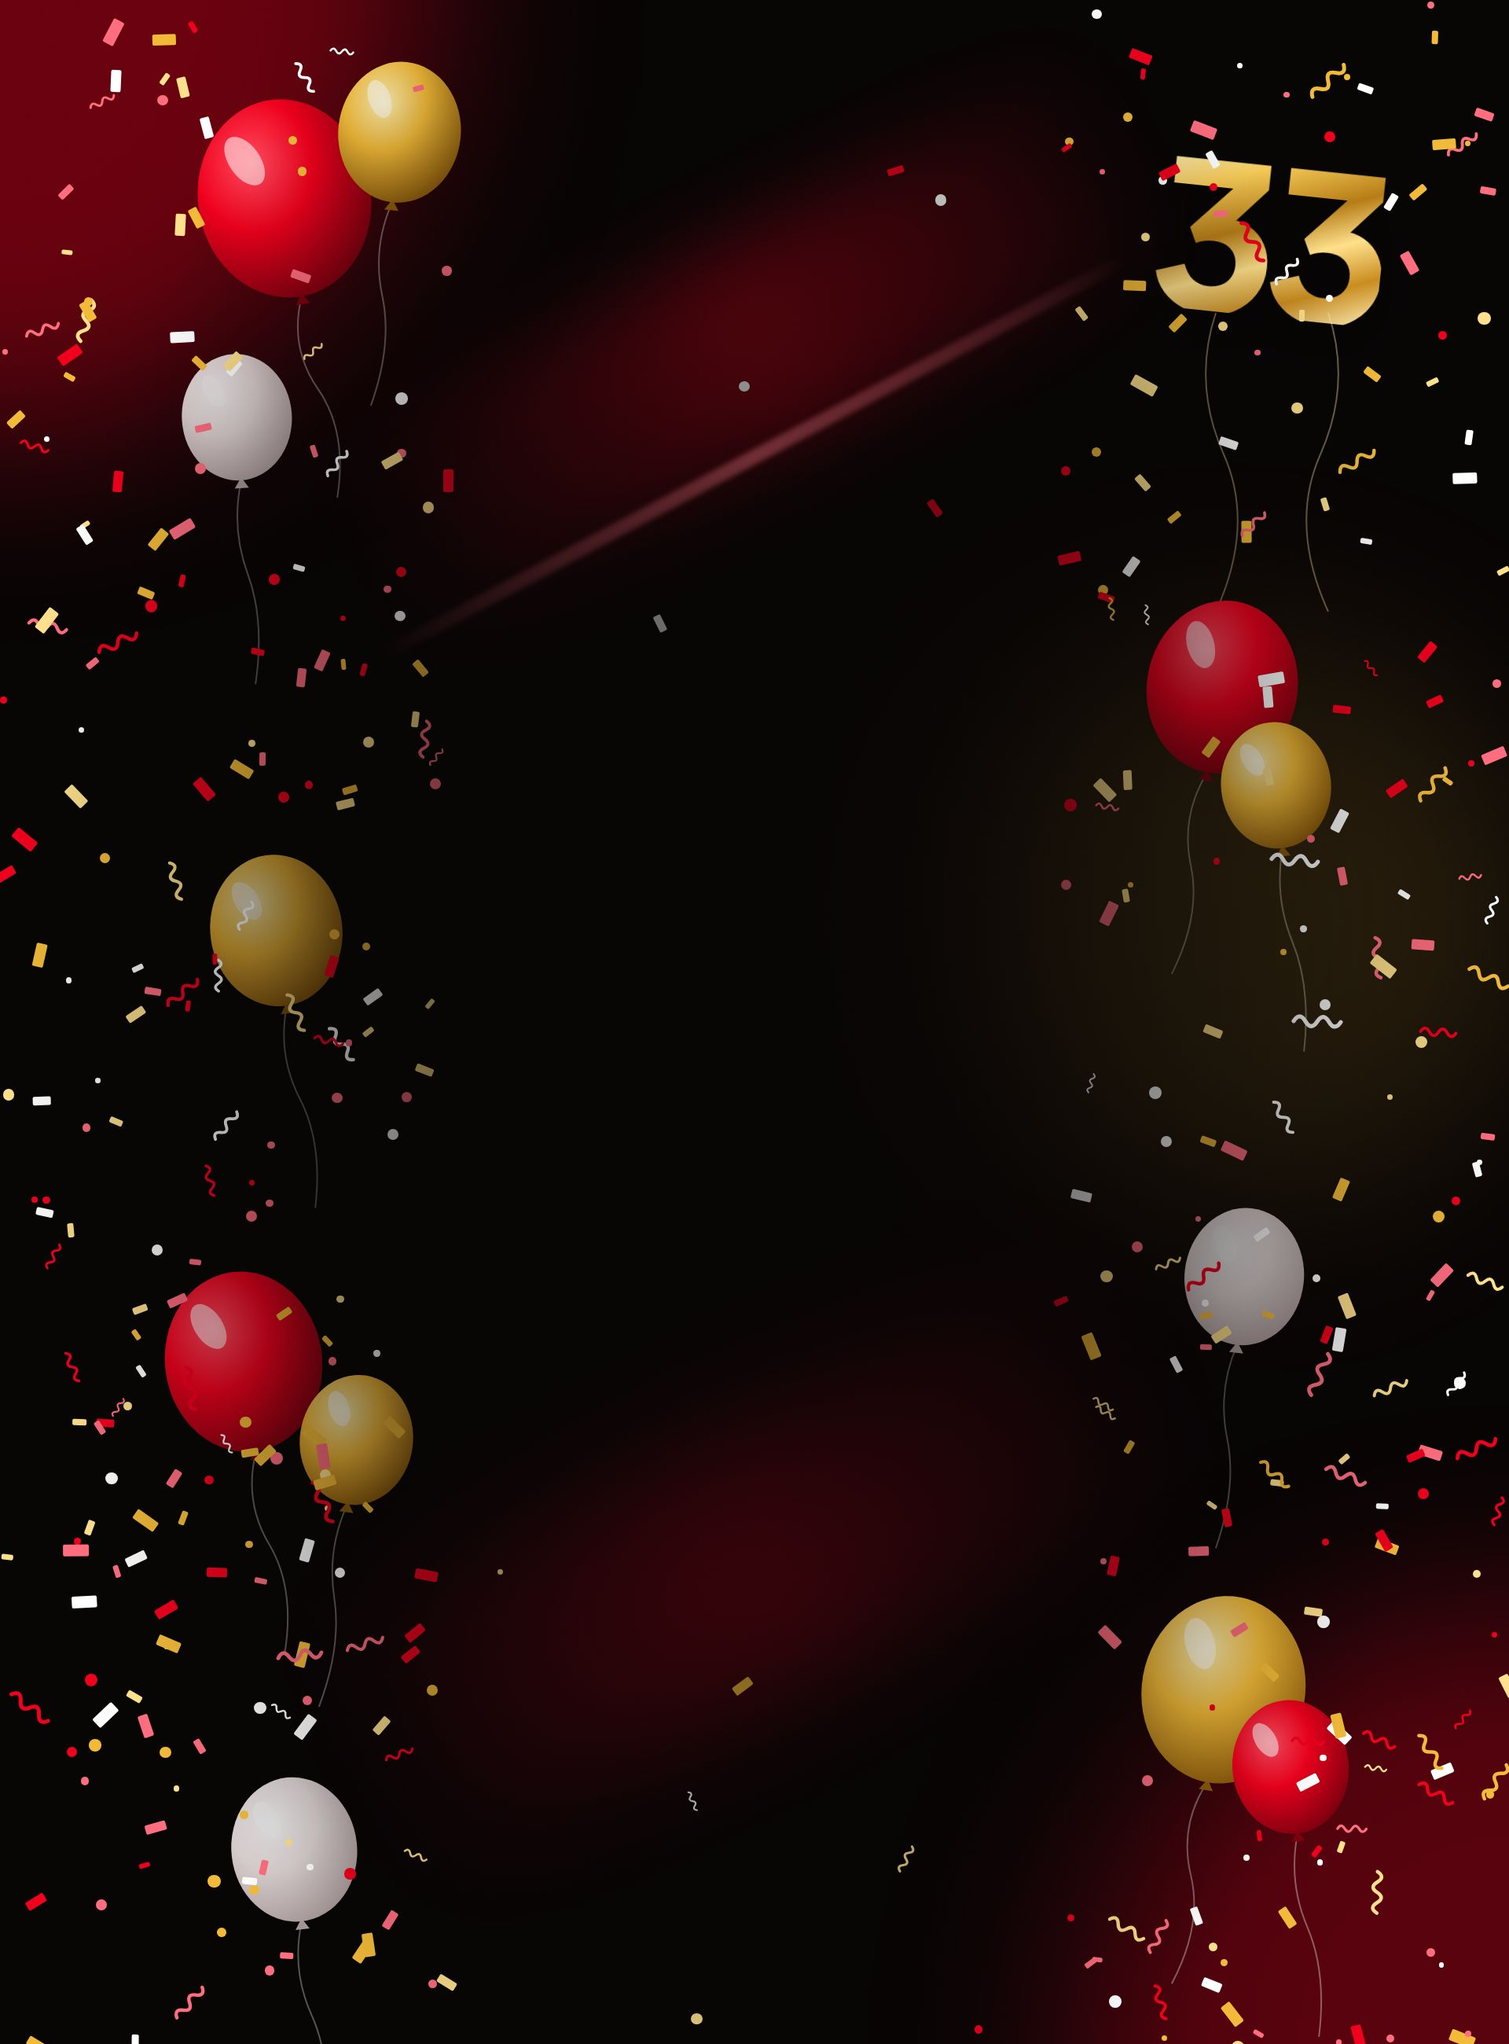
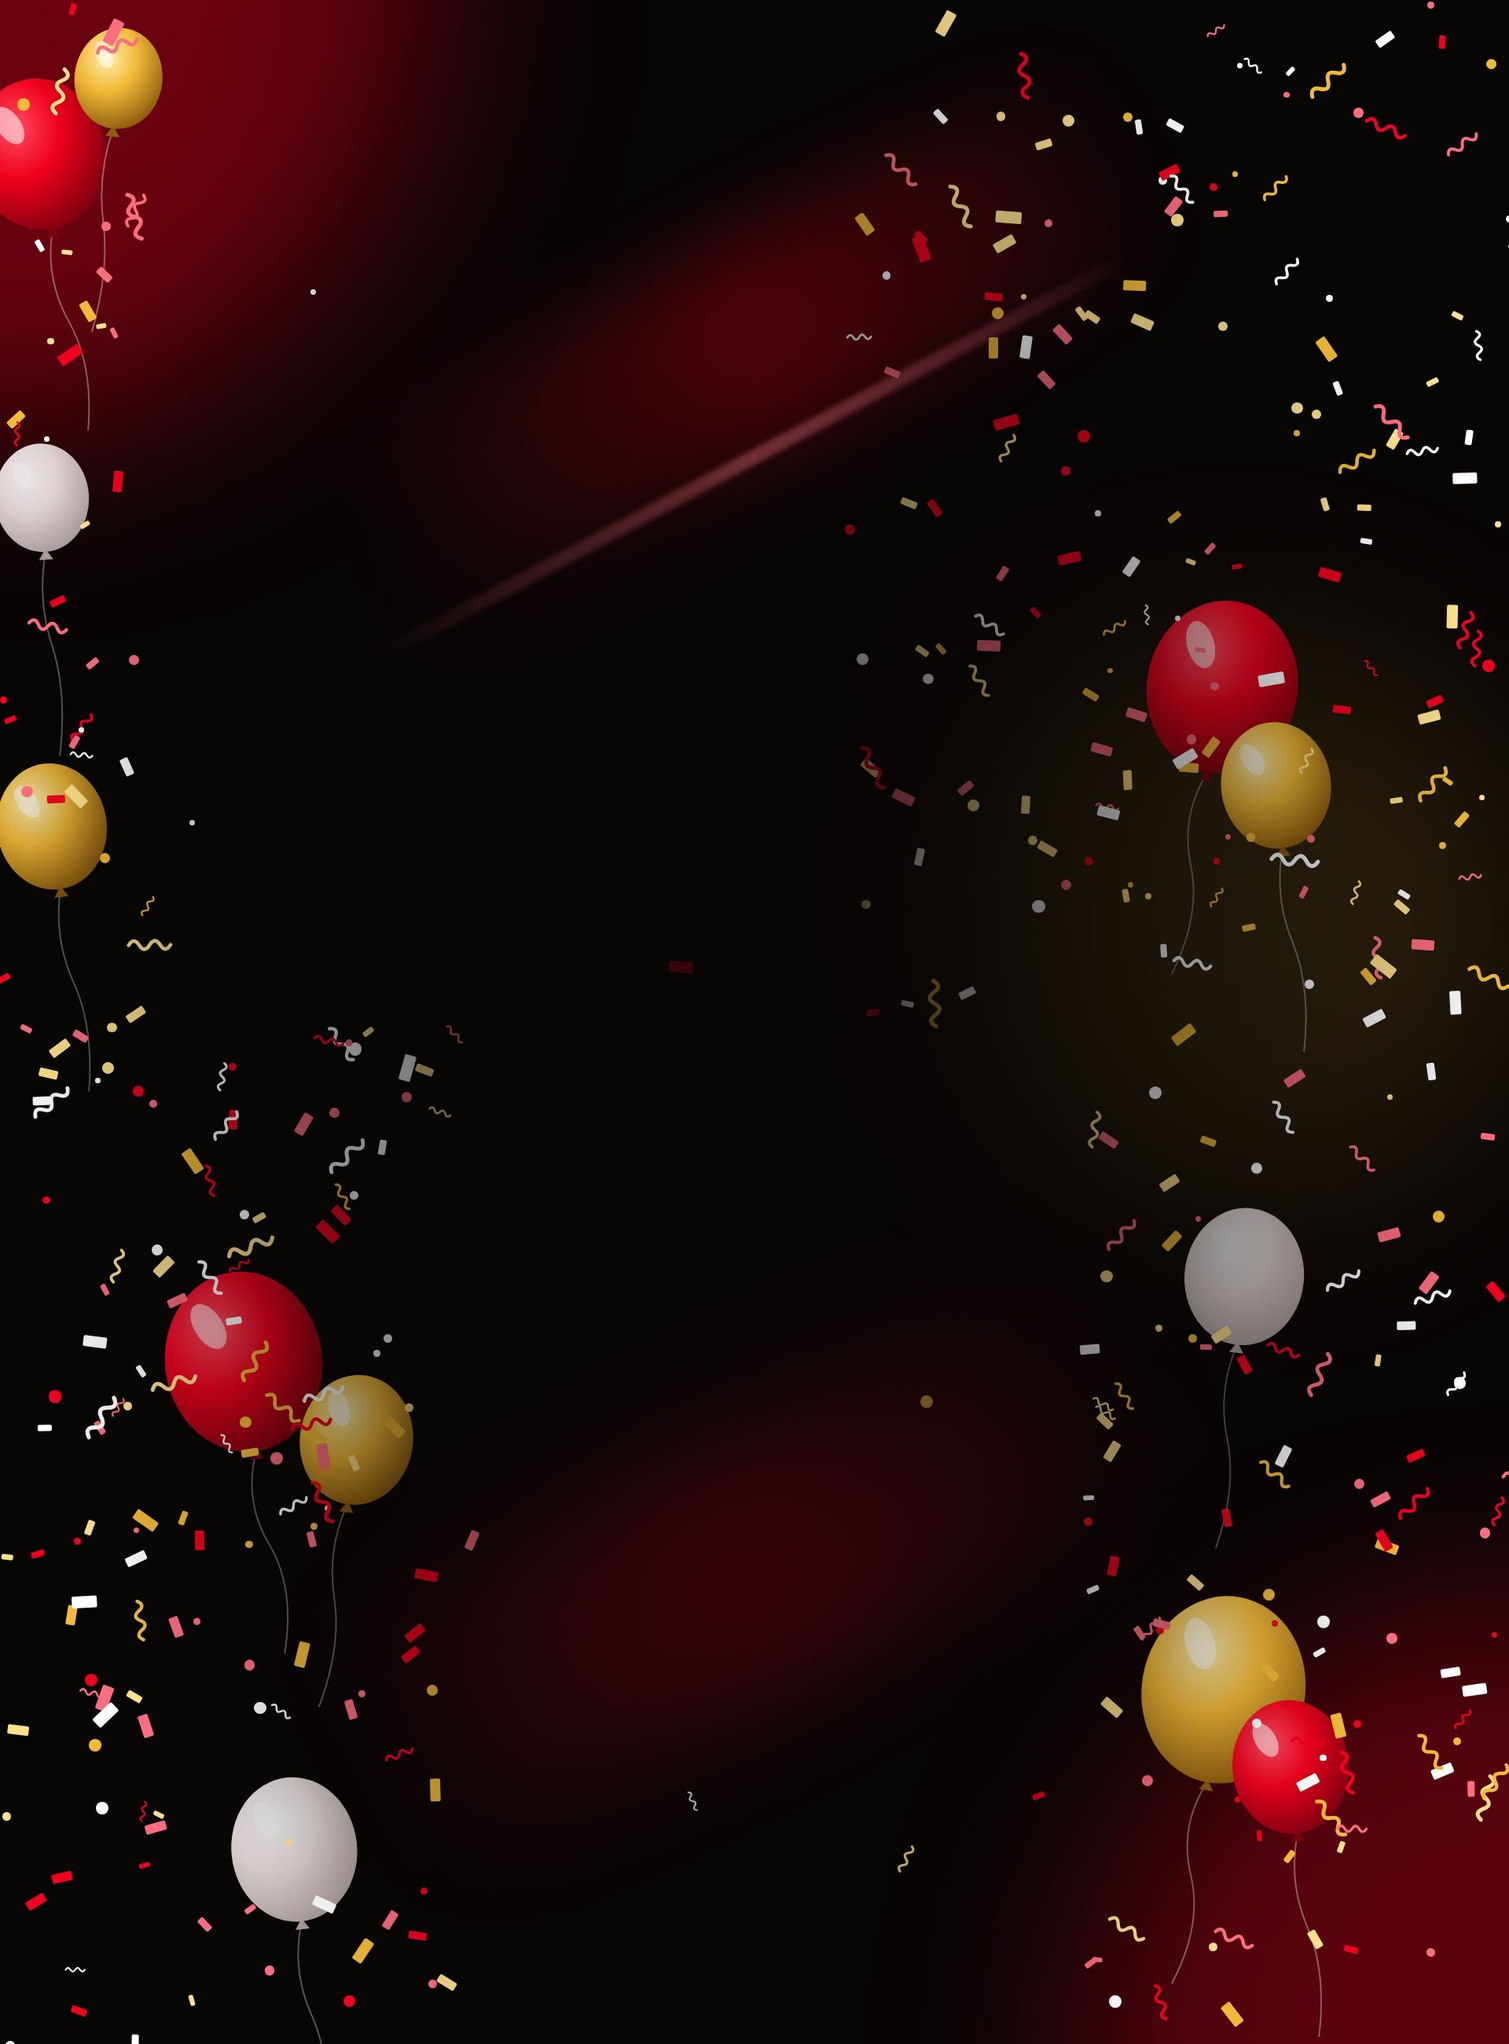
Add Smitty's photo to the Goat's 33 hero
The hero is now two columns on desktop (copy left, framed photo right
with a gold border, gentle float and a "Just turned 33" badge); on
phones the photo sits under the headline. The desktop hero background
was redrawn to keep the left text column clear, and its gold 33
balloon was dropped since the photo now fills that corner.
The block uses SMITTY_PHOTO_URL as a placeholder for the GHL Media URL.

Claude-Session: https://claude.ai/code/session_016EWm4T9j3p357VgxQ4fA9k

diff --git a/funnel/goats-33/preview/registration.html b/funnel/goats-33/preview/registration.html
@@ -106,6 +106,28 @@ html { scroll-behavior: smooth; }
 .wf-hero .wf__wrap { padding-top: 64px; padding-bottom: 32px; }
 .wf-hero h1 { margin: 20px 0 20px; }
 .wf-hero h1 span { display: block; }
+/* Hero with Smitty's photo: copy left, photo right on desktop; photo under the headline on phones */
+.wf-hero .wf-hero__grid { max-width: 1160px; display: grid; grid-template-columns: minmax(0, 1.15fr) minmax(0, .85fr);
+  grid-template-areas: "head photo" "rest photo"; column-gap: 56px; align-items: center; text-align: left; }
+.wf-hero__head { grid-area: head; align-self: end; }
+.wf-hero__rest { grid-area: rest; align-self: start; }
+.wf-hero__rest .wf-learn, .wf-hero__rest .wf-dates { margin-left: 0; margin-right: 0; max-width: none; }
+.wf-hero__photo { grid-area: photo; position: relative; margin: 0; justify-self: center; width: 100%; max-width: 440px;
+  transform: rotate(2deg); animation: wf-photo-float 6s ease-in-out infinite; }
+.wf-hero__photo img { display: block; width: 100%; height: auto; border-radius: 18px; border: 4px solid transparent;
+  background: linear-gradient(#000, #000) padding-box, var(--wf-gold-foil) border-box;
+  box-shadow: 0 30px 60px -20px rgba(0,0,0,.8), 0 0 60px -10px rgba(242,185,55,.45); }
+.wf-hero__badge { position: absolute; left: -18px; bottom: 28px; padding: 10px 16px; border-radius: 999px; background: var(--wf-red); color: #fff;
+  font-family: var(--wf-head); font-weight: 800; font-size: 15px; letter-spacing: .02em; transform: rotate(-6deg);
+  box-shadow: 0 12px 28px -8px rgba(240,0,28,.7); animation: wf-badge-wobble 3s ease-in-out infinite; }
+@keyframes wf-photo-float { 0%, 100% { transform: rotate(2deg) translateY(0); } 50% { transform: rotate(2deg) translateY(-10px); } }
+@keyframes wf-badge-wobble { 0%, 100% { transform: rotate(-6deg) scale(1); } 50% { transform: rotate(-3deg) scale(1.05); } }
+@media (max-width: 860px) {
+  .wf-hero .wf-hero__grid { grid-template-columns: 1fr; grid-template-areas: "head" "photo" "rest"; text-align: center; }
+  .wf-hero__photo { max-width: 340px; margin: 28px auto 4px; }
+  .wf-hero__rest .wf-learn { text-align: left; }
+}
+@media (prefers-reduced-motion: reduce) { .wf-hero__photo, .wf-hero__badge { animation: none; } }
 .wf-learn { margin: 36px auto 0; max-width: 600px; text-align: left; background: rgba(255,255,255,.04);
   border: 1px solid rgba(255,255,255,.12); border-radius: var(--wf-radius); padding: 24px; }
 .wf-learn h3 { margin-bottom: 14px; }
@@ -341,14 +363,23 @@ body{margin:0;background:#0A0606}
 </div>
 
 <section class="sec sec--hero"><!-- Goat's 33 · 02 HERO · GHL section background = backgrounds/hero-desktop.jpg (mobile: hero-mobile.jpg)
-     Same section, stacked below this: 02b-waitlist-header, then GHL's native FORM, then 03-waitlist-perks. -->
+     Same section, stacked below this: 02b-waitlist-header, then GHL's native FORM, then 03-waitlist-perks.
+     PHOTO: upload images/smitty-hero.jpg to GHL Media, copy its URL, and paste it in place of ../images/smitty-hero.jpg below. -->
 <div class="wf wf--dark wf-hero">
   <div class="wf-confetti" aria-hidden="true"><i></i><i></i><i></i><i></i><i></i><i></i><i></i><i></i><i></i><i></i><i></i><i></i><i></i><i></i><i></i><i></i><i></i><i></i><i></i><i></i></div>
-  <div class="wf__wrap wf__center">
+  <div class="wf__wrap wf-hero__grid">
+    <div class="wf-hero__head">
     <span class="wf__pill wf__pill--party">🎉 Birthday month · 33 days · $330</span>
     <h1><span class="wf__gold">Goat's 33:</span> <span class="wf__red">33 Days to Fundable</span></h1>
     <p class="wf__lead">I just turned 33. For my birthday month, I'm taking you through the 33 credit and funding moves I wish somebody showed me at 23, for $330.</p>
+    </div>
 
+    <figure class="wf-hero__photo">
+      <img src="../images/smitty-hero.jpg" alt="Smitty smiling and pointing to his framed ClickFunnels Two Comma Club award" width="800" height="984" loading="eager">
+      <figcaption class="wf-hero__badge">🎂 Just turned 33</figcaption>
+    </figure>
+
+    <div class="wf-hero__rest">
     <div class="wf-learn">
       <h3>In 33 days, you'll…</h3>
       <ul>
@@ -364,7 +395,7 @@ body{margin:0;background:#0A0606}
       <div class="wf-date"><span class="wf-date__label">Challenge starts</span><span class="wf-date__day">Nov 1</span><span class="wf-date__dow">Sunday</span></div>
     </div>
     <p style="margin:12px 0 0;font-size:14px;color:var(--wf-on-dark-muted)">Doors close Saturday, Oct 31, the last night of my birthday month.</p>
-
+    </div>
   </div>
 </div>
 <!-- Goat's 33 · 02b WAITLIST HEADER · same GHL section as the hero, right after 02-hero

diff --git a/funnel/goats-33/preview/thank-you.html b/funnel/goats-33/preview/thank-you.html
@@ -106,6 +106,28 @@ html { scroll-behavior: smooth; }
 .wf-hero .wf__wrap { padding-top: 64px; padding-bottom: 32px; }
 .wf-hero h1 { margin: 20px 0 20px; }
 .wf-hero h1 span { display: block; }
+/* Hero with Smitty's photo: copy left, photo right on desktop; photo under the headline on phones */
+.wf-hero .wf-hero__grid { max-width: 1160px; display: grid; grid-template-columns: minmax(0, 1.15fr) minmax(0, .85fr);
+  grid-template-areas: "head photo" "rest photo"; column-gap: 56px; align-items: center; text-align: left; }
+.wf-hero__head { grid-area: head; align-self: end; }
+.wf-hero__rest { grid-area: rest; align-self: start; }
+.wf-hero__rest .wf-learn, .wf-hero__rest .wf-dates { margin-left: 0; margin-right: 0; max-width: none; }
+.wf-hero__photo { grid-area: photo; position: relative; margin: 0; justify-self: center; width: 100%; max-width: 440px;
+  transform: rotate(2deg); animation: wf-photo-float 6s ease-in-out infinite; }
+.wf-hero__photo img { display: block; width: 100%; height: auto; border-radius: 18px; border: 4px solid transparent;
+  background: linear-gradient(#000, #000) padding-box, var(--wf-gold-foil) border-box;
+  box-shadow: 0 30px 60px -20px rgba(0,0,0,.8), 0 0 60px -10px rgba(242,185,55,.45); }
+.wf-hero__badge { position: absolute; left: -18px; bottom: 28px; padding: 10px 16px; border-radius: 999px; background: var(--wf-red); color: #fff;
+  font-family: var(--wf-head); font-weight: 800; font-size: 15px; letter-spacing: .02em; transform: rotate(-6deg);
+  box-shadow: 0 12px 28px -8px rgba(240,0,28,.7); animation: wf-badge-wobble 3s ease-in-out infinite; }
+@keyframes wf-photo-float { 0%, 100% { transform: rotate(2deg) translateY(0); } 50% { transform: rotate(2deg) translateY(-10px); } }
+@keyframes wf-badge-wobble { 0%, 100% { transform: rotate(-6deg) scale(1); } 50% { transform: rotate(-3deg) scale(1.05); } }
+@media (max-width: 860px) {
+  .wf-hero .wf-hero__grid { grid-template-columns: 1fr; grid-template-areas: "head" "photo" "rest"; text-align: center; }
+  .wf-hero__photo { max-width: 340px; margin: 28px auto 4px; }
+  .wf-hero__rest .wf-learn { text-align: left; }
+}
+@media (prefers-reduced-motion: reduce) { .wf-hero__photo, .wf-hero__badge { animation: none; } }
 .wf-learn { margin: 36px auto 0; max-width: 600px; text-align: left; background: rgba(255,255,255,.04);
   border: 1px solid rgba(255,255,255,.12); border-radius: var(--wf-radius); padding: 24px; }
 .wf-learn h3 { margin-bottom: 14px; }

diff --git a/funnel/goats-33/registration/00-global-styles.css b/funnel/goats-33/registration/00-global-styles.css
@@ -104,6 +104,28 @@ html { scroll-behavior: smooth; }
 .wf-hero .wf__wrap { padding-top: 64px; padding-bottom: 32px; }
 .wf-hero h1 { margin: 20px 0 20px; }
 .wf-hero h1 span { display: block; }
+/* Hero with Smitty's photo: copy left, photo right on desktop; photo under the headline on phones */
+.wf-hero .wf-hero__grid { max-width: 1160px; display: grid; grid-template-columns: minmax(0, 1.15fr) minmax(0, .85fr);
+  grid-template-areas: "head photo" "rest photo"; column-gap: 56px; align-items: center; text-align: left; }
+.wf-hero__head { grid-area: head; align-self: end; }
+.wf-hero__rest { grid-area: rest; align-self: start; }
+.wf-hero__rest .wf-learn, .wf-hero__rest .wf-dates { margin-left: 0; margin-right: 0; max-width: none; }
+.wf-hero__photo { grid-area: photo; position: relative; margin: 0; justify-self: center; width: 100%; max-width: 440px;
+  transform: rotate(2deg); animation: wf-photo-float 6s ease-in-out infinite; }
+.wf-hero__photo img { display: block; width: 100%; height: auto; border-radius: 18px; border: 4px solid transparent;
+  background: linear-gradient(#000, #000) padding-box, var(--wf-gold-foil) border-box;
+  box-shadow: 0 30px 60px -20px rgba(0,0,0,.8), 0 0 60px -10px rgba(242,185,55,.45); }
+.wf-hero__badge { position: absolute; left: -18px; bottom: 28px; padding: 10px 16px; border-radius: 999px; background: var(--wf-red); color: #fff;
+  font-family: var(--wf-head); font-weight: 800; font-size: 15px; letter-spacing: .02em; transform: rotate(-6deg);
+  box-shadow: 0 12px 28px -8px rgba(240,0,28,.7); animation: wf-badge-wobble 3s ease-in-out infinite; }
+@keyframes wf-photo-float { 0%, 100% { transform: rotate(2deg) translateY(0); } 50% { transform: rotate(2deg) translateY(-10px); } }
+@keyframes wf-badge-wobble { 0%, 100% { transform: rotate(-6deg) scale(1); } 50% { transform: rotate(-3deg) scale(1.05); } }
+@media (max-width: 860px) {
+  .wf-hero .wf-hero__grid { grid-template-columns: 1fr; grid-template-areas: "head" "photo" "rest"; text-align: center; }
+  .wf-hero__photo { max-width: 340px; margin: 28px auto 4px; }
+  .wf-hero__rest .wf-learn { text-align: left; }
+}
+@media (prefers-reduced-motion: reduce) { .wf-hero__photo, .wf-hero__badge { animation: none; } }
 .wf-learn { margin: 36px auto 0; max-width: 600px; text-align: left; background: rgba(255,255,255,.04);
   border: 1px solid rgba(255,255,255,.12); border-radius: var(--wf-radius); padding: 24px; }
 .wf-learn h3 { margin-bottom: 14px; }

diff --git a/funnel/goats-33/registration/02-hero.html b/funnel/goats-33/registration/02-hero.html
@@ -1,12 +1,21 @@
 <!-- Goat's 33 · 02 HERO · GHL section background = backgrounds/hero-desktop.jpg (mobile: hero-mobile.jpg)
-     Same section, stacked below this: 02b-waitlist-header, then GHL's native FORM, then 03-waitlist-perks. -->
+     Same section, stacked below this: 02b-waitlist-header, then GHL's native FORM, then 03-waitlist-perks.
+     PHOTO: upload images/smitty-hero.jpg to GHL Media, copy its URL, and paste it in place of SMITTY_PHOTO_URL below. -->
 <div class="wf wf--dark wf-hero">
   <div class="wf-confetti" aria-hidden="true"><i></i><i></i><i></i><i></i><i></i><i></i><i></i><i></i><i></i><i></i><i></i><i></i><i></i><i></i><i></i><i></i><i></i><i></i><i></i><i></i></div>
-  <div class="wf__wrap wf__center">
+  <div class="wf__wrap wf-hero__grid">
+    <div class="wf-hero__head">
     <span class="wf__pill wf__pill--party">🎉 Birthday month · 33 days · $330</span>
     <h1><span class="wf__gold">Goat's 33:</span> <span class="wf__red">33 Days to Fundable</span></h1>
     <p class="wf__lead">I just turned 33. For my birthday month, I'm taking you through the 33 credit and funding moves I wish somebody showed me at 23, for $330.</p>
+    </div>
 
+    <figure class="wf-hero__photo">
+      <img src="SMITTY_PHOTO_URL" alt="Smitty smiling and pointing to his framed ClickFunnels Two Comma Club award" width="800" height="984" loading="eager">
+      <figcaption class="wf-hero__badge">🎂 Just turned 33</figcaption>
+    </figure>
+
+    <div class="wf-hero__rest">
     <div class="wf-learn">
       <h3>In 33 days, you'll…</h3>
       <ul>
@@ -22,6 +31,6 @@
       <div class="wf-date"><span class="wf-date__label">Challenge starts</span><span class="wf-date__day">Nov 1</span><span class="wf-date__dow">Sunday</span></div>
     </div>
     <p style="margin:12px 0 0;font-size:14px;color:var(--wf-on-dark-muted)">Doors close Saturday, Oct 31, the last night of my birthday month.</p>
-
+    </div>
   </div>
 </div>

diff --git a/funnel/goats-33/src/bg.html b/funnel/goats-33/src/bg.html
@@ -90,10 +90,10 @@ if (v === 'light') {
       balloon(W * .03, H * .55, 80, 'gold', -8, .7); balloon(W * .97, H * .8, 80, 'red', 8, .7);
     } else {
       // Art spread down the whole height (fractions of H), so a taller or shorter section still looks full.
-      foilNumber('33', W * .765, H * .075, 260, 6);
-      balloon(W * .2, H * .09, 110, 'red', -10); balloon(W * .26, H * .06, 78, 'gold', 6); balloon(W * .16, H * .2, 70, 'white', -4, .9);
+      // Top half: the hero copy is left-aligned now, so keep balloons out of the text column (x .09 to .56).
+      balloon(W * .035, H * .07, 84, 'red', -10); balloon(W * .075, H * .035, 56, 'gold', 6); balloon(W * .03, H * .24, 60, 'white', -4, .9);
       balloon(W * .8, H * .33, 96, 'red', 10); balloon(W * .85, H * .38, 70, 'gold', -6);
-      balloon(W * .19, H * .45, 84, 'gold', -8, .9);
+      balloon(W * .04, H * .4, 70, 'gold', -8, .9);
       balloon(W * .17, H * .66, 100, 'red', -8); balloon(W * .23, H * .7, 72, 'gold', 8);
       balloon(W * .82, H * .62, 76, 'white', 6, .9);
       balloon(W * .8, H * .82, 104, 'gold', 10); balloon(W * .86, H * .86, 74, 'red', -6);
@@ -104,7 +104,8 @@ if (v === 'light') {
     balloon(W * .06, H * .7, 90, 'gold', -8); balloon(W * .13, H * .82, 64, 'red', 6);
   }
   const gutters = (x) => (x < .3 || x > .7 ? 1 : .03);
-  if (v === 'hero') confetti(portrait ? 260 : 800, ['#F0001C', '#F2B937', '#FFE08A', '#FFFFFF', '#FF6B7D'], portrait ? (x) => (x < .1 || x > .9 ? .9 : .04) : gutters, portrait ? 2.2 : 1);
+  const heroDesk = (x, y) => (y < .5 ? (x < .09 || x > .56 ? 1 : .02) : gutters(x));
+  if (v === 'hero') confetti(portrait ? 260 : 800, ['#F0001C', '#F2B937', '#FFE08A', '#FFFFFF', '#FF6B7D'], portrait ? (x) => (x < .1 || x > .9 ? .9 : .04) : heroDesk, portrait ? 2.2 : 1);
   else confetti(320, ['#F0001C', '#F2B937', '#FFE08A', '#FFFFFF', '#FF6B7D'], edges, 1);
   add('<div class="l vig"></div>');
 }

diff --git a/funnel/goats-33/src/build-preview.py b/funnel/goats-33/src/build-preview.py
@@ -2,7 +2,7 @@
 The form between the hero and the perks is a stand-in for GHL's native form element."""
 from pathlib import Path
 root = Path(__file__).resolve().parent.parent
-blk = lambda n: next((root / "registration").glob(f"{n}-*.html")).read_text()
+blk = lambda n: next((root / "registration").glob(f"{n}-*.html")).read_text().replace("SMITTY_PHOTO_URL", "../images/smitty-hero.jpg")
 FORM = """<div class="wf wf--dark" style="padding:0 16px"><form class="mock-form" onsubmit="return false">
   <p class="mock-note">Preview only: GHL's native form goes here</p>
   <label>First name<input placeholder="First name" autocomplete="given-name"></label>

diff --git a/funnel/goats-33/README.md b/funnel/goats-33/README.md
@@ -14,6 +14,9 @@ Upload everything in `backgrounds/` to GHL **Media**:
 
 In each section: **Section → Background → Image**, size **Cover**, position **Center**. For the hero, set the mobile image in the mobile view if your builder supports a separate mobile background. Otherwise use `hero-desktop.jpg` for both. The balloons and confetti sit along the sides, so the text column stays clear either way.
 
+## 1b. Upload Smitty's photo (hero)
+Upload `images/smitty-hero.jpg` (800×984) to GHL **Media**, copy its URL, then in `02-hero.html` replace `SMITTY_PHOTO_URL` with that URL before pasting the block.
+
 ## 2. Paste the global styles (once)
 **Page Settings → Custom CSS**: paste all of `registration/00-global-styles.css`, replacing anything from an earlier version.
 It's plain CSS. It loads the fonts and holds the brand colors (`--wf-red` and the rest) and all styling. To change a color later, edit it there once.
